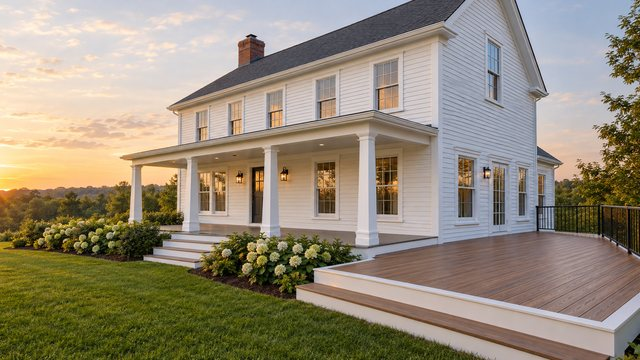
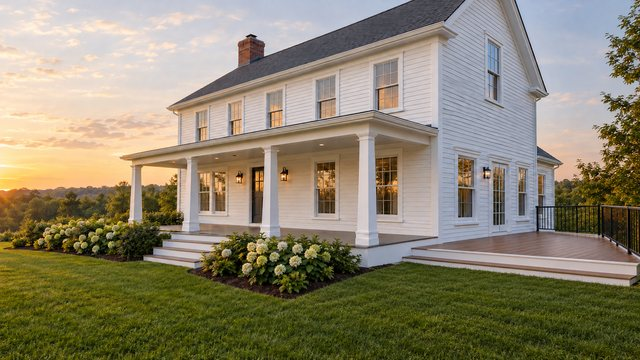
House hero: pull deck back in line with porch steps, re-map deck zone and dots

diff --git a/index.html b/index.html
@@ -55,7 +55,7 @@
       rel="stylesheet"
     />
     <!-- Hero preload: house hero is active. For slider mode, swap to the commented line. -->
-    <link rel="preload" as="image" type="image/webp" imagesrcset="./images/house_hero/house-640.webp 640w, ./images/house_hero/house-1000.webp 1000w, ./images/house_hero/house-1672.webp 1672w" imagesizes="100vw" fetchpriority="high" />
+    <link rel="preload" as="image" type="image/webp" imagesrcset="./images/house_hero/house-640.webp?v=2 640w, ./images/house_hero/house-1000.webp?v=2 1000w, ./images/house_hero/house-1672.webp?v=2 1672w" imagesizes="100vw" fetchpriority="high" />
     <!-- <link rel="preload" as="image" type="image/webp" imagesrcset="./images/hero_deck-1000.webp 1000w, ./images/hero_deck-1600.webp 1600w, ./images/hero_deck.webp 2400w" imagesizes="100vw" fetchpriority="high" /> -->
 
     <link rel="stylesheet" href="./css/base.css" />
@@ -288,8 +288,8 @@
       <section class="house-hero" aria-labelledby="house-hero-title" data-house-hero>
         <div class="house-stage" data-house-stage>
           <picture>
-            <source type="image/webp" srcset="./images/house_hero/house-640.webp 640w, ./images/house_hero/house-1000.webp 1000w, ./images/house_hero/house-1672.webp 1672w" sizes="100vw" />
-            <img class="house-stage__img" src="./images/house_hero/house-1672.jpg" srcset="./images/house_hero/house-640.jpg 640w, ./images/house_hero/house-1000.jpg 1000w, ./images/house_hero/house-1672.jpg 1672w" sizes="100vw" width="1672" height="941" fetchpriority="high" decoding="async" alt="White colonial home with a covered front porch, a large brown PVC deck, and crisp white PVC window trim at sunset. Select a highlighted area to explore that product line." />
+            <source type="image/webp" srcset="./images/house_hero/house-640.webp?v=2 640w, ./images/house_hero/house-1000.webp?v=2 1000w, ./images/house_hero/house-1672.webp?v=2 1672w" sizes="100vw" />
+            <img class="house-stage__img" src="./images/house_hero/house-1672.jpg?v=2" srcset="./images/house_hero/house-640.jpg?v=2 640w, ./images/house_hero/house-1000.jpg?v=2 1000w, ./images/house_hero/house-1672.jpg?v=2 1672w" sizes="100vw" width="1672" height="941" fetchpriority="high" decoding="async" alt="White colonial home with a covered front porch, a large brown PVC deck, and crisp white PVC window trim at sunset. Select a highlighted area to explore that product line." />
           </picture>
 
           <svg class="house-zones" viewBox="0 0 1200 675" preserveAspectRatio="xMaxYMid slice" aria-hidden="true" focusable="false" data-house-zones>
@@ -300,7 +300,7 @@
               </filter>
             </defs>
             <g class="house-zone" data-zone="deck" data-href="./pages/decking.html">
-              <polygon points="628,500 700,478 820,446 1005,434 1200,436 1200,568 1150,603" />
+              <polygon points="778,466 822,446 1005,434 1200,440 1200,493 1170,490" />
             </g>
             <g class="house-zone" data-zone="porch" data-href="./pages/porch.html">
               <polygon points="300,424 560,424 812,442 812,450 668,458 600,447 340,440" />
@@ -320,11 +320,11 @@
           </svg>
 
           <div class="house-dots" data-house-dots>
-            <button type="button" class="house-dot" data-dot="deck" data-x="1000" data-y="500" aria-haspopup="dialog" aria-expanded="false" aria-controls="house-card">
+            <button type="button" class="house-dot" data-dot="deck" data-x="1085" data-y="462" aria-haspopup="dialog" aria-expanded="false" aria-controls="house-card">
               <span class="house-dot__ring" aria-hidden="true"></span>
               <span class="house-dot__label">Decking</span>
             </button>
-            <button type="button" class="house-dot" data-dot="invisiclip" data-x="770" data-y="520" aria-haspopup="dialog" aria-expanded="false" aria-controls="house-card">
+            <button type="button" class="house-dot" data-dot="invisiclip" data-x="905" data-y="466" aria-haspopup="dialog" aria-expanded="false" aria-controls="house-card">
               <span class="house-dot__ring" aria-hidden="true"></span>
               <span class="house-dot__label">InvisiClip&trade;</span>
             </button>
